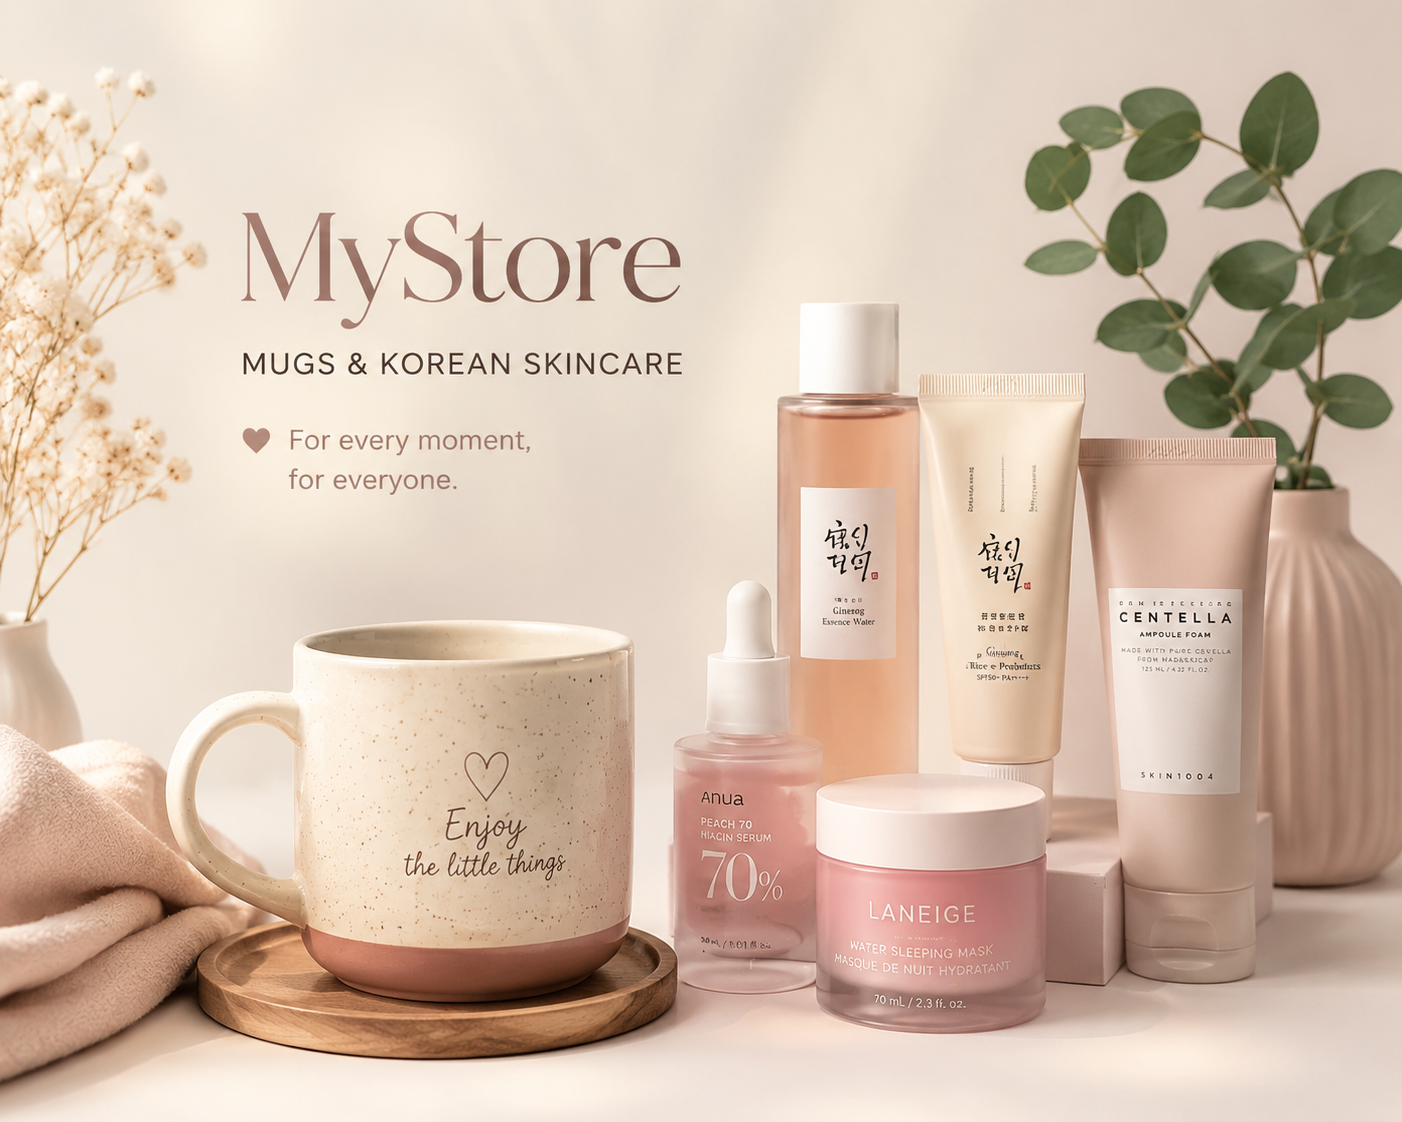
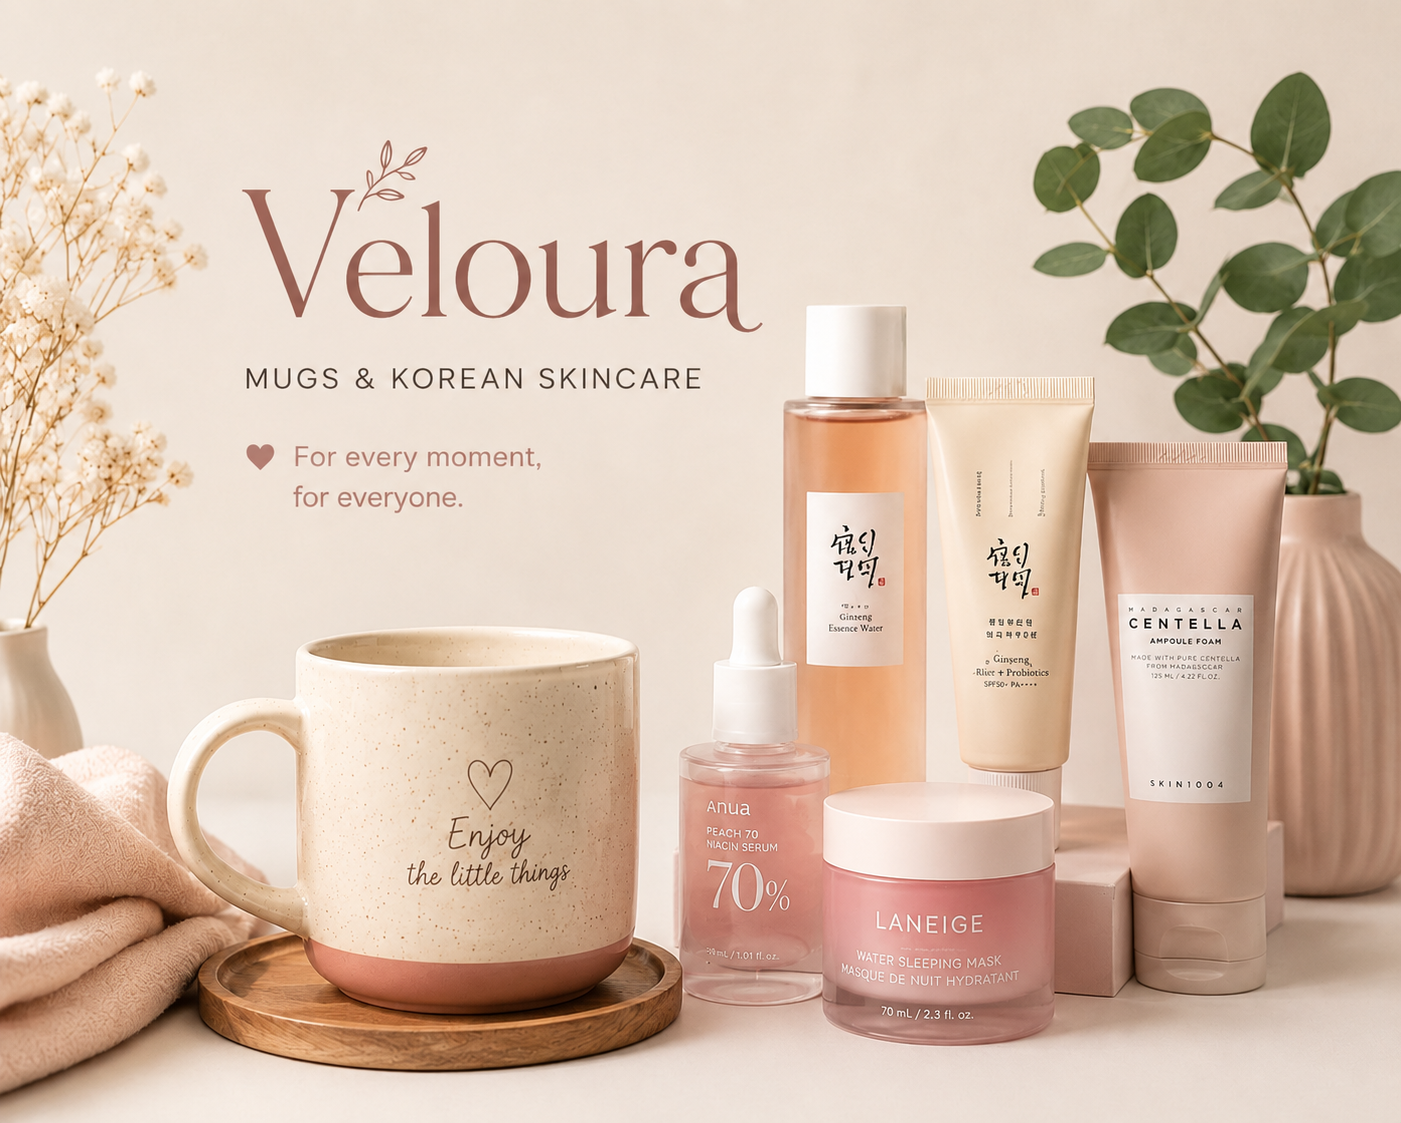
add index file and css file

diff --git a/style.css b/style.css
@@ -3,6 +3,7 @@
     padding: 0;
     box-sizing: border-box;
     font-family: Arial, Helvetica, sans-serif;
+    
 }
 
 .Navbar{
@@ -22,7 +23,7 @@
 }
 
 .Navbar h1{
-    color: #B28D79;
+    color: #E1958F;
     font-size: 30px;
     cursor: pointer;
 }
@@ -42,7 +43,7 @@
 .Navbar button{
     margin-left: 30px;
     padding: 10px 22px;
-    background-color: #B28D79;
+    background-color: #E1958F;
     color: white;
     border: none;
     border-radius: 8px;
@@ -55,44 +56,84 @@
     background-color: #a57c7c;
 }
 
+.logo{
+    display: flex;
+    align-items: center;
+    gap: 12px;
+}
+
+.logo img{
+    width: 55px;
+    height: 55px;
+    object-fit: contain;
+    border-radius: 50%;
+}
+
+.logo h1{
+    font-size: 30px;
+    color: #B28D79;
+    font-weight: bold;
+    margin: 0;
+}
 .hero{
     display: flex;
     justify-content: space-between;
     align-items: center;
-    padding: 140px 80px 80px;
-    background-color: #f8f9fc;
+    min-height: 100vh;
+    padding: 100px 80px;
+    background: linear-gradient(to right,#F8F3EE,#FFFDFB);
+    gap: 70px;
 }
 
 .hero-text{
-    width: 50%;
+    flex: 1;
 }
 
 .hero-text h2{
-    font-size: 50px;
-    color: #B28D79;
-    margin-bottom: 20px;
+    font-size: 70px;
+    color: #6D4C41;
+    line-height: 1.1;
+    margin-bottom: 15px;
+    font-family: Georgia, serif;
 }
 
-.hero-text p{
-    font-size: 18px;
-    color: #555;
-    line-height: 1.8;
+.hero-line{
+    display: flex;
+    align-items: center;
+    gap: 15px;
+    color: #C68B8B;
     margin-bottom: 30px;
 }
 
+.hero-line span{
+    width: 80px;
+    height: 2px;
+    background-color: #DDB6B6;
+}
+
+.hero-text p{
+    font-size: 20px;
+    color: #666;
+    line-height: 1.9;
+    max-width: 550px;
+    margin-bottom: 35px;
+}
+
 .hero-text button{
-    padding: 14px 30px;
-    background-color: #B28D79;
+    padding: 16px 38px;
+    background-color: #E1958F;
     color: white;
     border: none;
-    border-radius: 8px;
+    border-radius: 12px;
     font-size: 18px;
+    font-weight: bold;
     cursor: pointer;
-    transition: 0.3s;
+    transition: .3s;
 }
 
 .hero-text button:hover{
-    background-color: #a57c7c;
+    background-color: #A57C7C;
+    transform: translateY(-4px);
 }
 
 .hero-image{
@@ -103,9 +144,8 @@
 
 .hero-image img{
     width: 100%;
-    max-width: 500px;
+    max-width: 650px;
     border-radius: 20px;
-    box-shadow: 0 15px 35px rgba(0,0,0,0.15);
 }
 
 .about{
@@ -143,7 +183,7 @@
 
 .services{
     padding: 80px;
-    background-color: #f8f9fc;
+    background: linear-gradient(to right,#F8F3EE,#FFFDFB);
     text-align: center;
 }
 
@@ -217,18 +257,48 @@
 }
 
 .contact button{
-    background-color: #B28D79;
+    background-color: #E1958F;
     color: white;
     padding: 14px 35px;
     border: none;
     border-radius: 8px;
     font-size: 18px;
     cursor: pointer;
-    transition: 0.3s;
+    transition: 0.3s ease;
+    position: relative;
+    overflow: hidden;
 }
 
 .contact button:hover{
     background-color: #a57c7c;
+    box-shadow: 0 8px 20px rgba(178, 141, 121, 0.4);
+    transform: translateY(-2px);
+}
+
+.contact button:active{
+    transform: scale(0.96);
+    box-shadow: 0 0 25px rgba(178, 141, 121, 0.8),
+                0 0 50px rgba(178, 141, 121, 0.5);
+}
+
+.contact button::after{
+    content: "";
+    position: absolute;
+    top: 50%;
+    left: 50%;
+    width: 0;
+    height: 0;
+    background: rgba(255,255,255,0.4);
+    border-radius: 50%;
+    transform: translate(-50%, -50%);
+    transition: width 0.5s ease, height 0.5s ease, opacity 0.5s;
+    opacity: 0;
+}
+
+.contact button:active::after{
+    width: 200px;
+    height: 200px;
+    opacity: 0;
 }
 
 .contact-info{
@@ -242,11 +312,11 @@
 }
 
 .footer{
-    background-color: #EFE4D7;
+   background: linear-gradient(to right,#F8F3EE,#FFFDFB);
     color: black;
     text-align: center;
     padding: 30px 20px;
-    margin-top: 60px;
+
 }
 
 .footer h3{

diff --git a/index.html b/index.html
@@ -3,7 +3,7 @@
 <head>
     <meta charset="UTF-8">
     <meta name="viewport" content="width=device-width, initial-scale=1.0">
-    <title>My Store</title>
+    <title>Veloura</title>
     <link rel="stylesheet" href="style.css">
 </head>
 <body>
@@ -11,8 +11,11 @@
     <section>
         <div class="Navbar">
             <nav>
-                <h1>My store</h1>
-
+                <div class="logo">
+                    <img src="images/Logo.png" alt="Store Logo">
+                    <h1>Veloura</h1>
+                </div>
+                
                 <div>
                     <a href="#Home">Home</a> &nbsp;
                     <a href="#About">About</a> &nbsp;
@@ -27,8 +30,16 @@
 
     <section class="hero">
         <div class="hero-text">
-            <h2>Welcome to MyStore</h2>
+            <h2>Welcome to 
+                <br>
+                MyStore
+            </h2>
 
+            <div class="hero-line">
+                <span></span>
+                🤍
+                <span></span>
+            </div>
             <p>Discover elegant mugs that brighten your day and original Korean skincare products that bring out your natural glow.
                 <br> 
                 Our store is for everyone, offering quality items at affordable prices.
@@ -38,7 +49,7 @@
         </div>
 
         <div class="hero-image">
-                <img src="images/Image.png" alt="Store logo">
+                <img src="images/Image.png" alt="Store Image">
         </div> 
     </section>
 
@@ -46,7 +57,7 @@
         <div class="about-content">
             <h2>About us</h2>
 
-            <p>At MyStore, we bring you stylish mugs and authentic Korean skincare products. Our mission is to provide high-quality items that anyone can enjoy — men and women alike — at affordable prices. 
+            <p>At MyStore Veloura, we bring you stylish mugs and authentic Korean skincare products. Our mission is to provide high-quality items that anyone can enjoy — men and women alike — at affordable prices. 
                 <br>
                 We believe in making everyday life more beautiful and simple through our carefully selected products.
             </p>
@@ -90,7 +101,7 @@
         </form>
         
         <div class="contact-info">
-            <p>📧 Email: [email redacted]</p>
+            <p>📧 Email: [email redacted]</p>
             <p>📞 Phone: [phone redacted]</p>
             <p>📍 Location: Hebron, Palestine</p>
         </div>
@@ -98,9 +109,9 @@
     </section>
 
     <footer class="footer">
-        <h3>MyStore</h3>
+        <h3>Veloura</h3>
         <p>Thank you for shopping with us!</p>
-        <p>© 2026 MyStore. All rights reserved.</p>
+        <p>© 2026 Veloura. All rights reserved.</p>
     </footer>
 
 

diff --git a/README.md b/README.md
@@ -1,1 +1,40 @@
 # Task2
+# Veloura
+
+## About the Project
+
+Veloura is a simple landing page that I designed and developed using HTML and CSS.
+
+The idea of the store is to combine elegant mugs with authentic Korean skincare products in one place. My goal was to create a clean, soft, and user-friendly design with warm colors and a simple layout.
+
+## Features
+
+* Responsive navigation bar
+* Hero section with a welcome message and image
+* About Us section
+* Services section with three service cards
+* Contact form
+* Footer
+* Hover effects on buttons and cards
+* Soft color palette for a modern look
+
+## Technologies Used
+
+* HTML
+* CSS
+
+## Preview
+
+![Veloura Screenshot](images/screenshot.png)
+
+## What I Learned
+
+While building this project, I practiced:
+
+* Creating a complete landing page using HTML and CSS.
+* Using Flexbox to organize page sections.
+* Styling buttons, cards, and forms.
+* Working with colors, spacing, and hover effects.
+* Organizing project files in a clean structure.
+
+